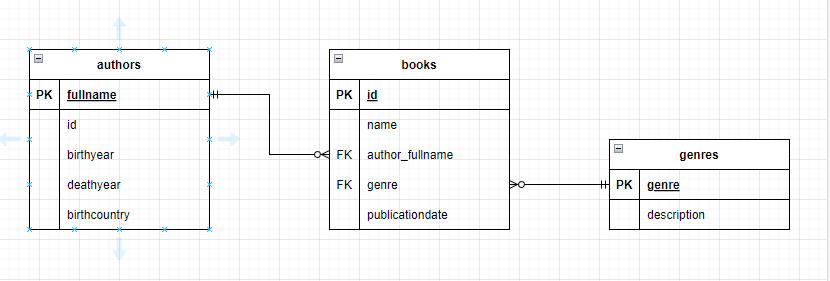
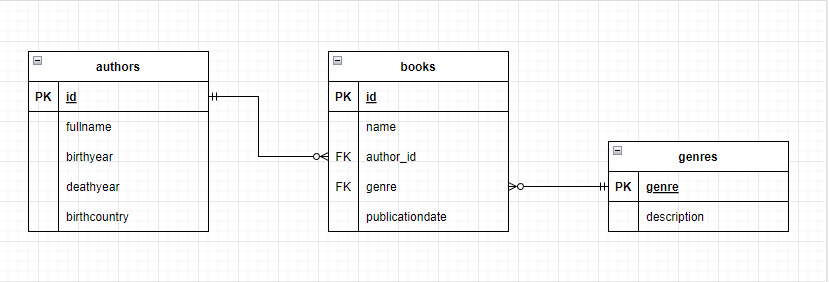
Task-5. Fixes

diff --git a/task-5/src/test/java/ru/otus/gorenkov/service/BookServiceImplTest.java b/task-5/src/test/java/ru/otus/gorenkov/service/BookServiceImplTest.java
@@ -5,6 +5,7 @@ import org.junit.jupiter.api.DisplayName;
 import org.junit.jupiter.api.Test;
 import org.springframework.beans.factory.annotation.Autowired;
 import org.springframework.boot.test.autoconfigure.jdbc.JdbcTest;
+import org.springframework.boot.test.mock.mockito.MockBean;
 import org.springframework.context.annotation.Import;
 import org.springframework.dao.EmptyResultDataAccessException;
 import ru.otus.gorenkov.dao.AuthorDaoJdbc;
@@ -13,10 +14,14 @@ import ru.otus.gorenkov.dao.GenreDaoJdbc;
 import ru.otus.gorenkov.domain.Author;
 import ru.otus.gorenkov.domain.Book;
 import ru.otus.gorenkov.domain.Genre;
-import ru.otus.gorenkov.service.BookServiceImpl;
+
+import java.util.ArrayList;
 
 import static org.assertj.core.api.Assertions.assertThat;
 import static org.assertj.core.api.Assertions.assertThatThrownBy;
+import static org.mockito.ArgumentMatchers.any;
+import static org.mockito.ArgumentMatchers.anyString;
+import static org.mockito.Mockito.*;
 
 @DisplayName("Сервис для книг должен ")
 @JdbcTest
@@ -25,11 +30,11 @@ class BookServiceImplTest {
 
     @Autowired
     private BookServiceImpl bookService;
-    @Autowired
+    @MockBean
     private BookDaoJdbc bookDao;
-    @Autowired
+    @MockBean
     private GenreDaoJdbc genreDao;
-    @Autowired
+    @MockBean
     private AuthorDaoJdbc authorDao;
 
     private Author testedAuthor;
@@ -59,62 +64,76 @@ class BookServiceImplTest {
     @DisplayName("корректно сохранять книгу если автор и жанр не существует")
     @Test
     void shouldCorrectSaveBookIfAuthorAndGenreNotExist() {
+        long expectedId = 1L;
+        when(genreDao.isExists(anyString())).thenReturn(false);
+        when(authorDao.isExists(anyString())).thenReturn(false);
+        when(bookDao.insert(any())).thenReturn(1L);
 
         long newId = bookService.save(testedBook);
-        Book actualBook = bookService.getById(newId);
 
-        assertThat(actualBook).usingRecursiveComparison().ignoringFieldsMatchingRegexes("id", "author.id").isEqualTo(testedBook);
+        verify(genreDao, times(1)).insert(any());
+        verify(authorDao, times(1)).insert(any());
+        assertThat(expectedId).isEqualTo(newId);
+
     }
 
     @DisplayName("корректно сохранять книгу если автор уже существует")
     @Test
     void shouldCorrectSaveBookIfAuthorExists() {
 
-        authorDao.insert(testedAuthor);
-        long newId = bookService.save(testedBook);
-        Book actualBook = bookService.getById(newId);
+        when(genreDao.isExists(anyString())).thenReturn(false);
+        when(authorDao.isExists(anyString())).thenReturn(true);
 
-        assertThat(actualBook).usingRecursiveComparison().ignoringFieldsMatchingRegexes("id", "author.id").isEqualTo(testedBook);
+        bookService.save(testedBook);
+
+        verify(genreDao, times(1)).insert(any());
+        verify(authorDao, times(0)).insert(any());
+
     }
 
     @DisplayName("корректно сохранять книгу если жанр уже существует")
     @Test
     void shouldCorrectSaveBookIfGenreExists() {
 
-        genreDao.insert(testedGenre);
-        long newId = bookService.save(testedBook);
-        Book actualBook = bookService.getById(newId);
+        when(genreDao.isExists(anyString())).thenReturn(true);
+        when(authorDao.isExists(anyString())).thenReturn(true);
 
-        assertThat(actualBook).usingRecursiveComparison().ignoringFieldsMatchingRegexes("id", "author.id").isEqualTo(testedBook);
+        bookService.save(testedBook);
+
+        verify(genreDao, times(0)).insert(any());
+        verify(authorDao, times(0)).insert(any());
     }
 
     @DisplayName("корректно обновлять автора книги если автора не существует")
     @Test
     void shouldCorrectUpdateAuthorOfBooksIfAuthorNotExists() {
-        Book expectedBook = bookService.getById(1);
-        expectedBook.getAuthor().setFullName("New Author");
+        when(genreDao.isExists(anyString())).thenReturn(true);
+        when(authorDao.isExists(anyString())).thenReturn(false);
 
-        bookService.update(expectedBook, expectedBook.getId());
-        Book resultBook = bookService.getById(1);
+        bookService.update(testedBook, testedBook.getId());
 
-        assertThat(resultBook).usingRecursiveComparison().ignoringFieldsMatchingRegexes("author.id").isEqualTo(expectedBook);
+        verify(genreDao, times(0)).insert(any());
+        verify(authorDao, times(1)).insert(any());
     }
 
     @DisplayName("корректно обновлять жанр книги если жанр не существует")
     @Test
     void shouldCorrectUpdateGenreOfBooksIfGenreNotExists() {
-        Book expectedBook = bookService.getById(1);
-        expectedBook.setGenre(Genre.builder().genre("New Genre").build());
 
-        bookService.update(expectedBook, expectedBook.getId());
-        Book resultBook = bookService.getById(1);
+        when(genreDao.isExists(anyString())).thenReturn(false);
+        when(authorDao.isExists(anyString())).thenReturn(true);
 
-        assertThat(resultBook).usingRecursiveComparison().isEqualTo(expectedBook);
+        bookService.update(testedBook, testedBook.getId());
+
+        verify(genreDao, times(1)).insert(any());
+        verify(authorDao, times(0)).insert(any());
     }
 
     @DisplayName("бросать исключение с ожидаемым сообщением при операции получения если книга не найдена")
     @Test
     void shouldThrowExceptionWithExpectedMessageWhenGettingIfBookNotFound() {
+        when(bookDao.getById(anyLong())).thenThrow(new EmptyResultDataAccessException(1));
+
         assertThatThrownBy(() -> bookService.getById(1000)).hasMessage("Книга не найдена");
     }
 
@@ -122,6 +141,7 @@ class BookServiceImplTest {
     @Test
     void shouldThrowExceptionWithExpectedMessageWhenUpdatingIfBookNotFound() {
         long notExistsId = 1000;
+        when(bookDao.getById(anyLong())).thenThrow(new EmptyResultDataAccessException(1));
         String expectedMessage = String.format("Книга с ид %s не найдена", notExistsId);
         assertThatThrownBy(() -> bookService.update(Book.builder().build(), notExistsId)).hasMessage(expectedMessage);
     }
@@ -129,12 +149,16 @@ class BookServiceImplTest {
     @DisplayName("должен удалять автора и жанр, по которым нет книг")
     @Test
     void shouldDeleteAuthorAndGenreWithoutBooks() {
+
+        when(bookDao.getById(anyLong())).thenReturn(testedBook);
+        when(bookDao.findByAuthor(anyString())).thenReturn(new ArrayList<>());
+        when(bookDao.findByGenre(anyString())).thenReturn(new ArrayList<>());
+
         long scriptBookId = 1;
-        Book scriptBook = bookService.getById(scriptBookId);
         bookService.deleteById(scriptBookId);
 
-        assertThatThrownBy(() -> authorDao.getById(scriptBook.getId())).isInstanceOf(EmptyResultDataAccessException.class);
-        assertThatThrownBy(() -> genreDao.get(scriptBook.getGenre().getGenre())).isInstanceOf(EmptyResultDataAccessException.class);
+        verify(authorDao, times(1)).deleteById(anyLong());
+        verify(genreDao, times(1)).delete(anyString());
 
     }
 }

diff --git a/task-5/src/main/java/ru/otus/gorenkov/dao/BookDaoJdbc.java b/task-5/src/main/java/ru/otus/gorenkov/dao/BookDaoJdbc.java
@@ -51,14 +51,14 @@ public class BookDaoJdbc implements BookDao {
 
         MapSqlParameterSource params = new MapSqlParameterSource();
         params.addValue("name", book.getName());
-        params.addValue("author_fullname", book.getAuthor().getFullName());
+        params.addValue("author_id", book.getAuthor().getId());
         params.addValue("genre", book.getGenre().getGenre());
         params.addValue("publicationdate", book.getPublicationDate());
 
         KeyHolder keyHolder = new GeneratedKeyHolder();
 
-        jdbc.update("insert into books (name, author_fullname, genre, publicationdate) " +
-                        "values (:name, :author_fullname, :genre, :publicationdate)",
+        jdbc.update("insert into books (name, author_id, genre, publicationdate) " +
+                        "values (:name, :author_id, :genre, :publicationdate)",
                 params, keyHolder, new String[] {"id"});
 
         return keyHolder.getKey().longValue();
@@ -69,7 +69,7 @@ public class BookDaoJdbc implements BookDao {
         return jdbc.queryForObject(
                 "select b.id as book_id, b.name, a.id as author_id, a.fullname, a.birthyear, a.deathyear, " +
                         "a.birthcountry, b.genre, g.description, b.publicationdate  " +
-                        "from books b inner join authors a on b.author_fullname = a.fullname " +
+                        "from books b inner join authors a on b.author_id = a.id " +
                         "inner join genres g on b.genre = g.genre where b.id = :id",
                 Map.of("id", id), bookRowMapper);
     }
@@ -79,7 +79,7 @@ public class BookDaoJdbc implements BookDao {
         return jdbc.query(
                 "select b.id as book_id, b.name, a.id as author_id, a.fullname, a.birthyear, a.deathyear, " +
                         "a.birthcountry, b.genre, g.description, b.publicationdate  " +
-                        "from books b inner join authors a on b.author_fullname = a.fullname " +
+                        "from books b inner join authors a on b.author_id = a.id " +
                         "inner join genres g on b.genre = g.genre",
                 bookRowMapper);
     }
@@ -89,12 +89,12 @@ public class BookDaoJdbc implements BookDao {
 
         MapSqlParameterSource params = new MapSqlParameterSource();
         params.addValue("name", book.getName());
-        params.addValue("author_fullname", book.getAuthor().getFullName());
+        params.addValue("author_id", book.getAuthor().getId());
         params.addValue("genre", book.getGenre().getGenre());
         params.addValue("publicationdate", book.getPublicationDate());
         params.addValue("id", id);
 
-        jdbc.update("update books set name = :name, author_fullname = :author_fullname, genre = :genre, " +
+        jdbc.update("update books set name = :name, author_id = :author_id, genre = :genre, " +
                         "publicationdate = :publicationdate where id = :id",
                 params);
     }
@@ -110,7 +110,7 @@ public class BookDaoJdbc implements BookDao {
         return jdbc.query(
                 "select b.id as book_id, b.name, a.id as author_id, a.fullname, a.birthyear, a.deathyear, " +
                         "a.birthcountry, b.genre, g.description, b.publicationdate  " +
-                        "from books b inner join authors a on b.author_fullname = a.fullname " +
+                        "from books b inner join authors a on b.author_id = a.id " +
                         "inner join genres g on b.genre = g.genre where a.fullname = :authorName",
                 Map.of("authorName", authorName), bookRowMapper);
     }
@@ -120,7 +120,7 @@ public class BookDaoJdbc implements BookDao {
         return jdbc.query(
                 "select b.id as book_id, b.name, a.id as author_id, a.fullname, a.birthyear, a.deathyear, " +
                         "a.birthcountry, b.genre, g.description, b.publicationdate  " +
-                        "from books b inner join authors a on b.author_fullname = a.fullname " +
+                        "from books b inner join authors a on b.author_id = a.id " +
                         "inner join genres g on b.genre = g.genre where g.genre = :genre",
                 Map.of("genre", genre), bookRowMapper);
     }

diff --git a/task-5/src/main/java/ru/otus/gorenkov/service/BookServiceImpl.java b/task-5/src/main/java/ru/otus/gorenkov/service/BookServiceImpl.java
@@ -25,7 +25,8 @@ public class BookServiceImpl implements BookService {
             genreDao.insert(book.getGenre());
         }
         if (!authorDao.isExists(book.getAuthor().getFullName())) {
-            authorDao.insert(book.getAuthor());
+            long authorId = authorDao.insert(book.getAuthor());
+            book.getAuthor().setId(authorId);
         }
 
         long bookId = bookDao.insert(book);
@@ -61,7 +62,8 @@ public class BookServiceImpl implements BookService {
             genreDao.insert(book.getGenre());
         }
         if (!authorDao.isExists(book.getAuthor().getFullName())) {
-            authorDao.insert(book.getAuthor());
+            long authorId = authorDao.insert(book.getAuthor());
+            book.getAuthor().setId(authorId);
         }
 
         bookDao.update(book, id);
